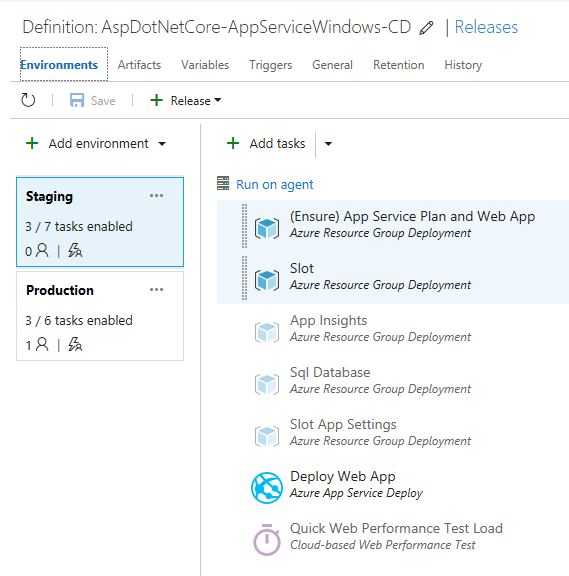
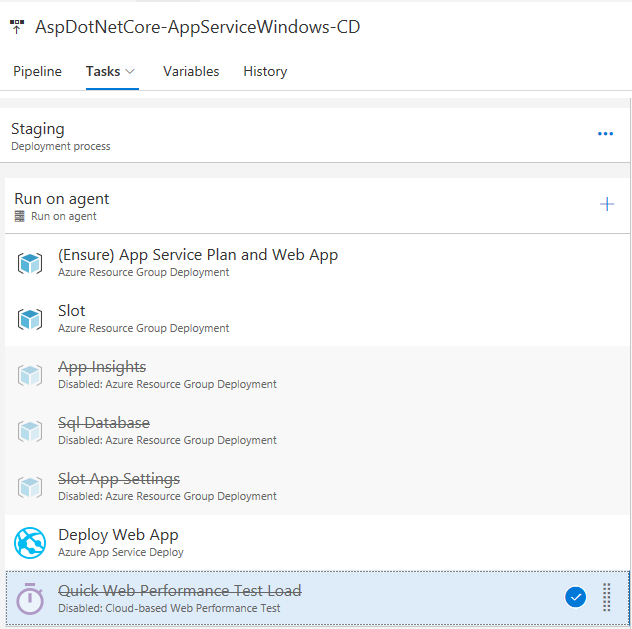
Update docs according new Release Editor UI + typos, etc.

diff --git a/docs/AspDotNetCore-AppServiceWindows-CD.md b/docs/AspDotNetCore-AppServiceWindows-CD.md
@@ -8,6 +8,9 @@ TODO
 
 # Create manually the Release Definition
 
+## Overview
+![Release Overview](/docs/imgs/AspDotNetCore-AppServiceWindows-CD.PNG)
+
 ## Staging Environment
 ![Staging Release Overview](/docs/imgs/AspDotNetCore-AppServiceWindows-CD-Staging.PNG)
 
@@ -28,6 +31,7 @@ TODO
 ### Steps 
 - (Ensure) App Service Plan and Web App
   - Type = Azure Resource Group Deployment
+  - Version = 2.*
   - Azure Subscription = set appropriate
   - Action = Create Or Update Resource Group
   - Resource Group = $(ResourceGroupName)
@@ -38,6 +42,7 @@ TODO
   - Deployment Mode = Incremental
 - Slot
   - Type = Azure Resource Group Deployment
+  - Version = 2.*
   - Azure Subscription = set appropriate
   - Action = Create Or Update Resource Group
   - Resource Group = $(ResourceGroupName)
@@ -48,6 +53,7 @@ TODO
   - Deployment Mode = Incremental
 - App Insights
   - Type = Azure Resource Group Deployment
+  - Version = 2.*
   - Azure Subscription = set appropriate
   - Action = Create Or Update Resource Group
   - Resource Group = $(ResourceGroupName)
@@ -58,6 +64,7 @@ TODO
   - Deployment Mode = Incremental
 - Sql Database
   - Type = Azure Resource Group Deployment
+  - Version = 2.*
   - Azure Subscription = set appropriate
   - Action = Create Or Update Resource Group
   - Resource Group = $(ResourceGroupName)
@@ -68,6 +75,7 @@ TODO
   - Deployment Mode = Incremental
 - Slot App Settings
   - Type = Azure Resource Group Deployment
+  - Version = 2.*
   - Azure Subscription = set appropriate
   - Action = Create Or Update Resource Group
   - Resource Group = $(ResourceGroupName)
@@ -77,7 +85,8 @@ TODO
   - Override Template Parameters = -webAppName $(ResourceGroupName) -slotName $(SlotName) -adminLogin $(AdministratorLogin) -adminLoginPassword (ConvertTo-SecureString -String '$(AdministratorLoginPassword)' -AsPlainText -Force)
   - Deployment Mode = Incremental
 - Deploy Web App
-  - Type = Azure App Service Manage (PREVIEW)
+  - Type = Azure App Service Deploy
+  - Version = 3.*
   - Azure Subscription = set appropriate
   - App Service Name = $(ResourceGroupName)
   - Deploy to Slot = true
@@ -88,6 +97,7 @@ TODO
   - Take App Offline = true
 - Quick Web Performance Test Load
   - Type = Cloud-based Web Performance Test
+  - Version = 1.*
   - VS Team Services Connection = set appropriate
   - Website Url = http://$(ResourceGroupName)-$(SlotName).azurewebsites.net/
   - Test name = Load Tests on $(ResourceGroupName)-$(SlotName) Homepage
@@ -116,6 +126,7 @@ TODO
 ### Steps
 - (Ensure) App Service Plan and Web App
   - Type = Azure Resource Group Deployment
+  - Version = 2.*
   - Azure Subscription = set appropriate
   - Action = Create Or Update Resource Group
   - Resource Group = $(ResourceGroupName)
@@ -126,6 +137,7 @@ TODO
   - Deployment Mode = Incremental
 - App Insights
   - Type = Azure Resource Group Deployment
+  - Version = 2.*
   - Azure Subscription = set appropriate
   - Action = Create Or Update Resource Group
   - Resource Group = $(ResourceGroupName)
@@ -136,6 +148,7 @@ TODO
   - Deployment Mode = Incremental
 - Sql Database
   - Type = Azure Resource Group Deployment
+  - Version = 2.*
   - Azure Subscription = set appropriate
   - Action = Create Or Update Resource Group
   - Resource Group = $(ResourceGroupName)
@@ -146,6 +159,7 @@ TODO
   - Deployment Mode = Incremental
 - App Settings
   - Type = Azure Resource Group Deployment
+  - Version = 2.*
   - Azure Subscription = set appropriate
   - Action = Create Or Update Resource Group
   - Resource Group = $(ResourceGroupName)
@@ -156,6 +170,7 @@ TODO
   - Deployment Mode = Incremental
 - Swap Staging to Production
   - Type = Azure App Service Manage (PREVIEW)
+  - Version = 0.*
   - Azure Subscription = set appropriate
   - Action = Swap Slots
   - App Service Name = $(ResourceGroupName)
@@ -164,6 +179,7 @@ TODO
   - Swap with Production = true
 - Set Resource Group Lock
   - Type = Azure PowerShell
+  - Version = 1.*
   - Azure Connection Type = set appropriate
   - Azure RM Subscription = set appropriate
   - Script Path = $(System.DefaultWorkingDirectory)/AspDotNetCore-AppServiceWindows-CI/scripts/[AddResourceGroupLock.ps1](../infra/scripts/AddResourceGroupLock.ps1)

diff --git a/docs/AspDotNetCore-AppServiceLinux-CD.md b/docs/AspDotNetCore-AppServiceLinux-CD.md
@@ -8,6 +8,9 @@ TODO
 
 # Create manually the Release Definition
 
+## Overview
+![Release Overview](/docs/imgs/AspDotNetCore-AppServiceLinux-CD.PNG)
+
 ## Staging Environment
 ![Staging Release Overview](/docs/imgs/AspDotNetCore-AppServiceLinux-CD-Staging.PNG)
 
@@ -28,6 +31,7 @@ TODO
 ### Steps 
 - (Ensure) App Service Plan and Web App
   - Type = Azure Resource Group Deployment
+  - Version = 2.*
   - Azure Subscription = set appropriate
   - Action = Create Or Update Resource Group
   - Resource Group = $(ResourceGroupName)
@@ -38,6 +42,7 @@ TODO
   - Deployment Mode = Incremental
 - Slot
   - Type = Azure Resource Group Deployment
+  - Version = 2.*
   - Azure Subscription = set appropriate
   - Action = Create Or Update Resource Group
   - Resource Group = $(ResourceGroupName)
@@ -48,6 +53,7 @@ TODO
   - Deployment Mode = Incremental
 - App Insights
   - Type = Azure Resource Group Deployment
+  - Version = 2.*
   - Azure Subscription = set appropriate
   - Action = Create Or Update Resource Group
   - Resource Group = $(ResourceGroupName)
@@ -58,6 +64,7 @@ TODO
   - Deployment Mode = Incremental
 - Sql Database
   - Type = Azure Resource Group Deployment
+  - Version = 2.*
   - Azure Subscription = set appropriate
   - Action = Create Or Update Resource Group
   - Resource Group = $(ResourceGroupName)
@@ -68,6 +75,7 @@ TODO
   - Deployment Mode = Incremental
 - Slot App Settings
   - Type = Azure Resource Group Deployment
+  - Version = 2.*
   - Azure Subscription = set appropriate
   - Action = Create Or Update Resource Group
   - Resource Group = $(ResourceGroupName)
@@ -78,6 +86,7 @@ TODO
   - Deployment Mode = Incremental
 - Restart Web App
   - Type = Azure App Service Manage (PREVIEW)
+  - Version = 0.*
   - Azure Subscription = set appropriate
   - Action = Restart App Service
   - App Service Name = $(ResourceGroupName)
@@ -86,6 +95,7 @@ TODO
   - Slot = $(SlotName)
 - Quick Web Performance Test Load
   - Type = Cloud-based Web Performance Test
+  - Version = 1.*
   - VS Team Services Connection = set appropriate
   - Website Url = http://$(ResourceGroupName)-$(SlotName).azurewebsites.net/
   - Test name = Load Tests on $(ResourceGroupName)-$(SlotName) Homepage
@@ -114,6 +124,7 @@ TODO
 ### Steps
 - (Ensure) App Service Plan and Web App
   - Type = Azure Resource Group Deployment
+  - Version = 2.*
   - Azure Subscription = set appropriate
   - Action = Create Or Update Resource Group
   - Resource Group = $(ResourceGroupName)
@@ -124,6 +135,7 @@ TODO
   - Deployment Mode = Incremental
 - App Insights
   - Type = Azure Resource Group Deployment
+  - Version = 2.*
   - Azure Subscription = set appropriate
   - Action = Create Or Update Resource Group
   - Resource Group = $(ResourceGroupName)
@@ -134,6 +146,7 @@ TODO
   - Deployment Mode = Incremental
 - Sql Database
   - Type = Azure Resource Group Deployment
+  - Version = 2.*
   - Azure Subscription = set appropriate
   - Action = Create Or Update Resource Group
   - Resource Group = $(ResourceGroupName)
@@ -144,6 +157,7 @@ TODO
   - Deployment Mode = Incremental
 - App Settings
   - Type = Azure Resource Group Deployment
+  - Version = 2.*
   - Azure Subscription = set appropriate
   - Action = Create Or Update Resource Group
   - Resource Group = $(ResourceGroupName)
@@ -154,6 +168,7 @@ TODO
   - Deployment Mode = Incremental
 - Swap Staging to Production
   - Type = Azure App Service Manage (PREVIEW)
+  - Version = 0.*
   - Azure Subscription = set appropriate
   - Action = Swap Slots
   - App Service Name = $(ResourceGroupName)
@@ -162,6 +177,7 @@ TODO
   - Swap with Production = true
 - Set Resource Group Lock
   - Type = Azure PowerShell
+  - Version = 1.*
   - Azure Connection Type = set appropriate
   - Azure RM Subscription = set appropriate
   - Script Path = $(System.DefaultWorkingDirectory)/AspDotNetCore-AppServiceLinux-CI/scripts/[AddResourceGroupLock.ps1](../infra/scripts/AddResourceGroupLock.ps1)

diff --git a/docs/AspDotNetCore-AppServiceLinux-CI.md b/docs/AspDotNetCore-AppServiceLinux-CI.md
@@ -29,7 +29,7 @@ az acr create --admin-enabled --sku Basic --verbose -l westus -n demoregfoo123 -
 
 # Import the Build Definition
 
-You could import [the associated Build Definition stored in this repository](/vsts/ApsNetCore-AppServiceLinuxs-CI.json) and then follow these steps to adapt it to your current project, credentials, etc.:
+You could import [the associated Build Definition stored in this repository](/vsts/AspDotNetCore-AppServiceLinuxs-CI.json) and then follow these steps to adapt it to your current project, credentials, etc.:
 
 TODO
 
@@ -49,36 +49,42 @@ TODO
 - Continuous Integration (CI) = true
 
 ## Process - Build process
-- Name = ApsNetCore-AppServiceLinux-CI
+- Name = AspDotNetCore-AppServiceLinux-CI
 - Default agent queue = Hosted Linux Preview
 
 ## Steps 
 - Restore
   - Type = .NET Core
+  - Version = 1.*
   - Command = restore
   - Project(s) = **/*.csproj
 - Build
   - Type = .NET Core
+  - Version = 1.*
   - Command = build
   - Project(s) = src/AspNetCoreApplication/AspNetCoreApplication.csproj\ntest/AspNetCoreApplication.UnitTests/AspNetCoreApplication.UnitTests.csproj
   - Arguments = --configuration $(BuildConfiguration)
 - UnitTests
   - Type = .NET Core
+  - Version = 1.*
   - Command = test
   - Project(s) = **/*UnitTests/*.csproj
   - Arguments = --configuration $(BuildConfiguration) -xml TEST-TestResults.xml
 - Publish Test Results
   - Type = Publish Test Results
+  - Version = 2.*
   - Test Result Format = XUnit
   - Test Results Files = **/TEST-*.xml
 - Publish Web App
   - Type = .NET Core
+  - Version = 1.*
   - Command = publish
   - Publish Web Projects = true
   - Arguments = --configuration $(BuildConfiguration) --output pub
   - Zip Published Projects = false
 - Build Docker image
   - Type = Docker (PREVIEW)
+  - Version = 0.* (preview)
   - Container Registry Type = Azure Container Registry
   - Azure subscription = set appropriate
   - Azure Container Registry = set appropriate
@@ -90,6 +96,7 @@ TODO
   - Include Latest Tags = true
 - Push an image
   - Type = Docker (PREVIEW)
+  - Version = 0.* (preview)
   - Container Registry Type = Azure Container Registry
   - Azure subscription = set appropriate
   - Azure Container Registry = set appropriate
@@ -98,6 +105,8 @@ TODO
   - Qualify Image Name = true
   - Include Latest Tags = true
 - Validate ARM Templates
+  - Type = Azure Resource Group Deployment
+  - Version = 2.*
   - Azure subscription = set appropriate
   - Action = Create or update resource group
   - Resource group = test
@@ -108,11 +117,13 @@ TODO
   - Deployment mode = Validation only
 - Publish Artifact: infra
   - Type = Publish Build Artifacts
+  - Version = 1.*
   - Path to publish = infra/templates
   - Artifact Name = infra
   - Artifact Type = Server
 - Publish Artifact: scripts
   - Type = Publish Build Artifacts
-  - Copy Root = infra/scripts
+  - Version = 1.*
+  - Path to publish = infra/scripts
   - Artifact Name = scripts
   - Artifact Type = Server

diff --git a/docs/AspDotNetCore-AppServiceWindows-CI.md b/docs/AspDotNetCore-AppServiceWindows-CI.md
@@ -4,7 +4,7 @@ Here is one example to Build an ASP.NET Core 1.1 web application to an App Servi
 
 # Import the Build Definition
 
-You could import [the associated Build Definition stored in this repository](/vsts/ApsNetCore-AppServiceWindows-CI.json) and then follow these steps to adapt it to your current project, credentials, etc.:
+You could import [the associated Build Definition stored in this repository](/vsts/AspDotNetCore-AppServiceWindows-CI.json) and then follow these steps to adapt it to your current project, credentials, etc.:
 
 TODO
 
@@ -24,35 +24,42 @@ TODO
 - Continuous Integration (CI) = true
 
 ## Process - Build process
-- Name = ApsNetCore-AppServiceWindows-CI
+- Name = AspDotNetCore-AppServiceWindows-CI
 - Default agent queue = Hosted VS2017
 
 ## Steps 
 - Restore
   - Type = .NET Core
+  - Version = 1.*
   - Command = restore
   - Project(s) = **/*.csproj
 - Build
   - Type = .NET Core
+  - Version = 1.*
   - Command = build
   - Project(s) = src/AspNetCoreApplication/AspNetCoreApplication.csproj\ntest/AspNetCoreApplication.UnitTests/AspNetCoreApplication.UnitTests.csproj
   - Arguments = --configuration $(BuildConfiguration)
 - UnitTests
   - Type = .NET Core
+  - Version = 1.*
   - Command = test
   - Project(s) = **/*UnitTests/*.csproj
   - Arguments = --configuration $(BuildConfiguration) -xml TEST-TestResults.xml
 - Publish Test Results
   - Type = Publish Test Results
+  - Version = 2.*
   - Test Result Format = XUnit
   - Test Results Files = **/TEST-*.xml
 - Publish Web App
   - Type = .NET Core
+  - Version = 1.*
   - Command = publish
   - Publish Web Projects = true
   - Arguments = --configuration $(BuildConfiguration) --output $(build.artifactstagingdirectory)
   - Zip Published Projects = true
 - Validate ARM Templates
+  - Type = Azure Resource Group Deployment
+  - Version = 2.*
   - Azure subscription = set appropriate
   - Action = Create or update resource group
   - Resource group = test
@@ -63,16 +70,19 @@ TODO
   - Deployment mode = Validation only
 - Publish Artifact: web
   - Type = Publish Build Artifacts
+  - Version = 1.*
   - Path to publish = $(build.artifactstagingdirectory)
   - Artifact Name = web
   - Artifact Type = Server
 - Publish Artifact: infra
   - Type = Publish Build Artifacts
+  - Version = 1.*
   - Path to publish = infra/templates
   - Artifact Name = infra
   - Artifact Type = Server
 - Publish Artifact: scripts
   - Type = Publish Build Artifacts
-  - Copy Root = infra/scripts
+  - Version = 1.*
+  - Path to publish = infra/scripts
   - Artifact Name = scripts
   - Artifact Type = Server
